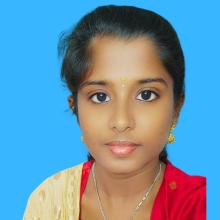
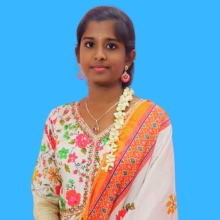
abt page crt

diff --git a/aivent/templates/about.html b/aivent/templates/about.html
@@ -201,7 +201,7 @@
           <div class="mt-5 pt-4 border-top border-secondary border-opacity-10 text-center">
             <h3 class="text-white mb-1">Shalini B</h3>
             <p class="mb-0" style="color: white">
-              Founder & Lead DevOps Engineer, Inovate Solution Technology
+              Founder, CEO & Lead DevOps Engineer, Inovate Solution Technology
             </p>
           </div>
         </div>
@@ -347,7 +347,7 @@
               class="img-fluid rounded-circle mb-3 border border-3 border-secondary"
               style="width: 120px; height: 120px; object-fit: cover; object-position: top;">
             <h5 class="mb-1 text-white">Arun</h5>
-            <p class="mb-0 text-white-50 fs-14">COO</p>
+            <p class="mb-0 text-white-50 fs-14">COO & Developer</p>
           </div>
         </div>
 
@@ -367,8 +367,8 @@
             <img src="/static/assets/images/team/sathish.jpg" alt="Sathish"
               class="img-fluid rounded-circle mb-3 border border-3 border-secondary"
               style="width: 120px; height: 120px; object-fit: cover; object-position: top;">
-            <h5 class="mb-1 text-white">Sathish</h5>
-            <p class="mb-0 text-white-50 fs-14">Digital Marketing</p>
+            <h5 class="mb-1 text-white">Sathish Kumar</h5>
+            <p class="mb-0 text-white-50 fs-14">Digital Marketing Head</p>
           </div>
         </div>
 
